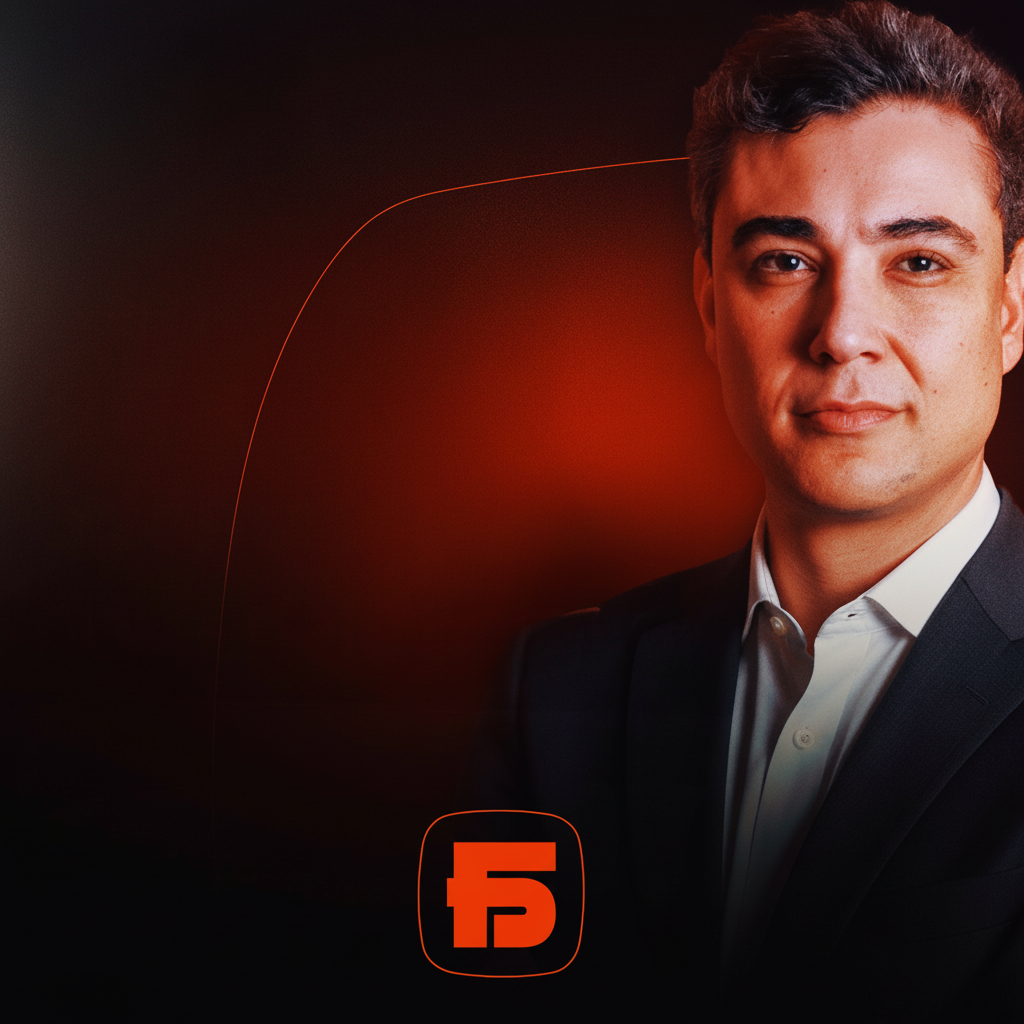
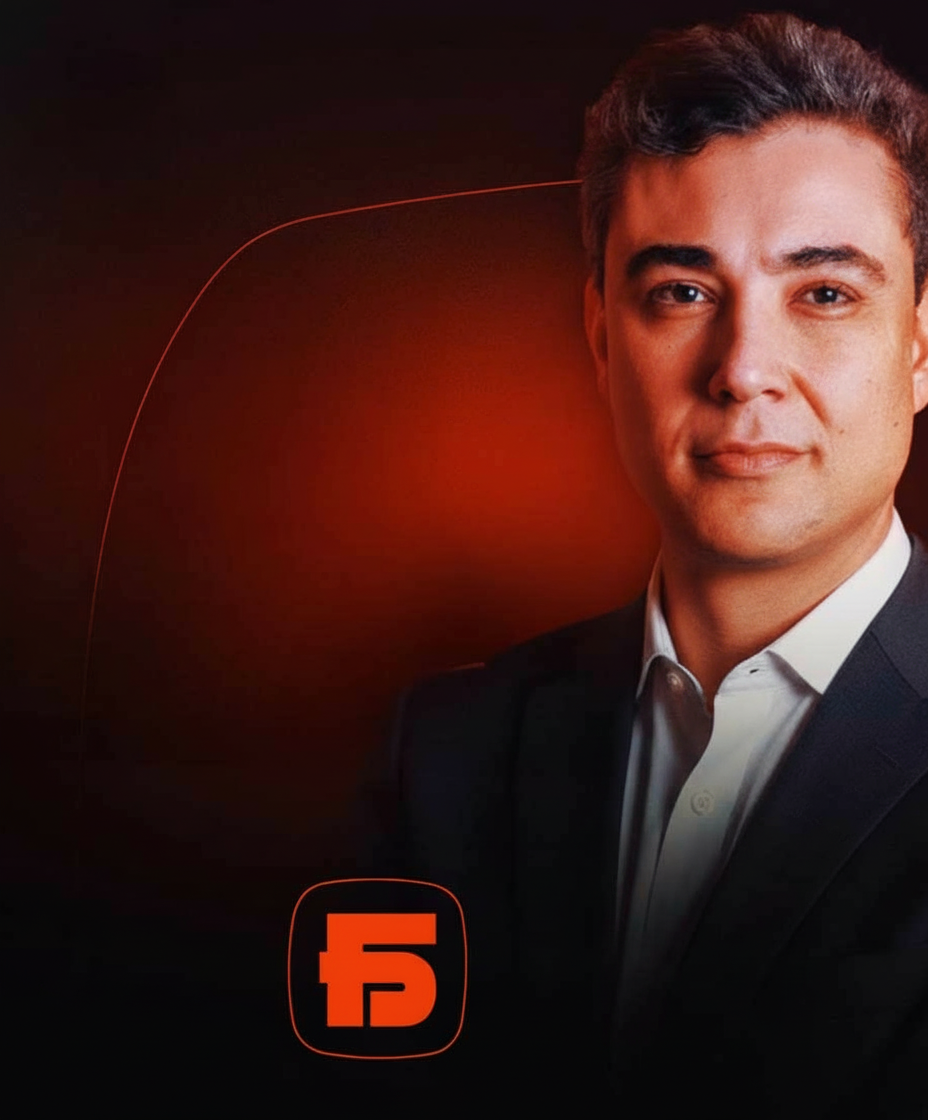
Changes

diff --git a/src/components/CredibilitySection.tsx b/src/components/CredibilitySection.tsx
@@ -64,24 +64,24 @@ const CredibilitySection = () => {
                 height="533"
               />
               
-              {/* Floating Stats - Compact and sophisticated */}
+              {/* Floating Stats - All on the LEFT side to not cover the face */}
               <div className="absolute top-2 left-2 md:top-4 md:left-4 glass-card px-2 py-1.5 md:px-3 md:py-2 rounded-lg backdrop-blur-xl border border-white/20 shadow-2xl hover:scale-105 transition-transform">
                 <div className="text-sm sm:text-base md:text-xl font-black text-gradient leading-none">+15 anos</div>
                 <div className="text-[8px] sm:text-[9px] md:text-[10px] text-foreground/70 leading-tight mt-0.5">Mercado<br/>Odontológico</div>
               </div>
               
-              <div className="absolute top-1/4 right-2 md:right-4 glass-card px-2 py-1.5 md:px-3 md:py-2 rounded-lg backdrop-blur-xl border border-white/20 shadow-2xl hover:scale-105 transition-transform">
+              <div className="absolute top-1/4 left-2 md:left-4 glass-card px-2 py-1.5 md:px-3 md:py-2 rounded-lg backdrop-blur-xl border border-white/20 shadow-2xl hover:scale-105 transition-transform">
                 <div className="text-sm sm:text-base md:text-xl font-black text-gradient leading-none">R$ 2M+</div>
                 <div className="text-[8px] sm:text-[9px] md:text-[10px] text-foreground/70 leading-tight mt-0.5">Vendas<br/>Estruturadas</div>
               </div>
               
-              <div className="absolute bottom-16 sm:bottom-20 md:bottom-24 left-2 md:left-4 glass-card px-2 py-1.5 md:px-3 md:py-2 rounded-lg backdrop-blur-xl border border-white/20 shadow-2xl hover:scale-105 transition-transform">
+              <div className="absolute top-1/2 left-2 md:left-4 glass-card px-2 py-1.5 md:px-3 md:py-2 rounded-lg backdrop-blur-xl border border-white/20 shadow-2xl hover:scale-105 transition-transform">
                 <div className="text-sm sm:text-base md:text-xl font-black text-gradient leading-none">500+</div>
                 <div className="text-[8px] sm:text-[9px] md:text-[10px] text-foreground/70 leading-tight mt-0.5">CRCs<br/>Treinadas</div>
               </div>
 
-              {/* Name Label - Bottom - More compact */}
-              <div className="absolute bottom-2 right-2 md:bottom-4 md:right-4 bg-background/95 backdrop-blur-sm px-2 py-1 md:px-3 md:py-1.5 rounded-lg border border-primary/30 shadow-2xl">
+              {/* Name Label - Bottom LEFT */}
+              <div className="absolute bottom-2 left-2 md:bottom-4 md:left-4 bg-background/95 backdrop-blur-sm px-2 py-1 md:px-3 md:py-1.5 rounded-lg border border-primary/30 shadow-2xl">
                 <p className="font-bold text-[10px] md:text-xs leading-tight">Fernando Machado</p>
                 <p className="text-[8px] md:text-[10px] text-primary leading-tight">Diretor Comercial<br/>f5 estratégia</p>
               </div>
